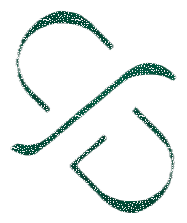
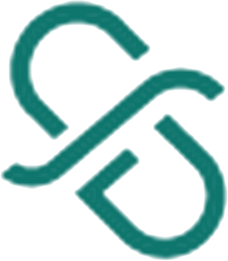
Watermark: crisp official mark, now in every story + section
Regenerated mark.png as a crisp, tightly-cropped bare interlocking-S mark extracted from the official logo (color-keyed the green square away, upscaled), replacing the stippled background-removal version. Added the watermark to all 6 animated story sections too (inside the pinned stage, behind content, white silhouette on the dark stories). Pins stay delta 0; no overlap or horizontal scroll.

diff --git a/_site/index.html b/_site/index.html
@@ -210,7 +210,7 @@
   </section>
 
   <section id="reason" data-story="reason" style="position:relative;background:#0B1220;color:#E7EDF5">
-    <div data-stage="1" style="min-height:100vh;display:flex;align-items:center;padding:clamp(72px,9vh,110px) 28px clamp(44px,6vh,72px);box-sizing:border-box;overflow:hidden">
+    <div data-stage="1" style="position:relative;isolation:isolate;min-height:100vh;display:flex;align-items:center;padding:clamp(72px,9vh,110px) 28px clamp(44px,6vh,72px);box-sizing:border-box;overflow:hidden"><img src="/_site/assets/s/mark.png" alt="" aria-hidden="true" style="position:absolute;z-index:-1;pointer-events:none;user-select:none;opacity:.07;width:clamp(220px,26vw,420px);right:-3%;bottom:-6%;filter:brightness(0) invert(1)">
       <div style="position:absolute;inset:0;background-image:repeating-linear-gradient(0deg, rgba(231,237,245,.04) 0 1px, transparent 1px 54px),repeating-linear-gradient(90deg, rgba(231,237,245,.04) 0 1px, transparent 1px 54px)"></div>
       <div style="position:relative;max-width:1240px;margin:0 auto;width:100%">
         <div style="display:flex;flex-wrap:wrap;align-items:center;gap:clamp(26px,4.5vw,72px)">
@@ -295,7 +295,7 @@
   </section>
 
   <section id="abx" data-story="abx" style="position:relative;background:#0B1220;color:#E7EDF5;border-top:1px solid #16233A">
-    <div data-stage="1" style="min-height:100vh;display:flex;align-items:center;padding:clamp(72px,9vh,110px) 28px clamp(44px,6vh,72px);box-sizing:border-box;overflow:hidden">
+    <div data-stage="1" style="position:relative;isolation:isolate;min-height:100vh;display:flex;align-items:center;padding:clamp(72px,9vh,110px) 28px clamp(44px,6vh,72px);box-sizing:border-box;overflow:hidden"><img src="/_site/assets/s/mark.png" alt="" aria-hidden="true" style="position:absolute;z-index:-1;pointer-events:none;user-select:none;opacity:.07;width:clamp(220px,26vw,420px);right:-3%;bottom:-6%;filter:brightness(0) invert(1)">
       <div style="position:relative;max-width:1240px;margin:0 auto;width:100%">
         <div style="display:flex;flex-wrap:wrap;align-items:center;gap:clamp(26px,4.5vw,72px)">
           <div style="flex:1 1 330px;min-width:0;max-width:470px">
@@ -703,7 +703,7 @@
   </section>
 
   <section id="maik" data-story="maik" style="position:relative;background:#0B1220;color:#E7EDF5">
-    <div data-stage="1" style="min-height:100vh;display:flex;align-items:center;padding:clamp(72px,9vh,110px) 28px clamp(44px,6vh,72px);box-sizing:border-box;overflow:hidden">
+    <div data-stage="1" style="position:relative;isolation:isolate;min-height:100vh;display:flex;align-items:center;padding:clamp(72px,9vh,110px) 28px clamp(44px,6vh,72px);box-sizing:border-box;overflow:hidden"><img src="/_site/assets/s/mark.png" alt="" aria-hidden="true" style="position:absolute;z-index:-1;pointer-events:none;user-select:none;opacity:.07;width:clamp(220px,26vw,420px);right:-3%;bottom:-6%;filter:brightness(0) invert(1)">
       <div style="position:relative;max-width:1240px;margin:0 auto;width:100%">
         <div style="display:flex;flex-wrap:wrap;align-items:center;gap:clamp(26px,4.5vw,72px)">
           <div style="flex:1 1 340px;min-width:0;max-width:480px">
@@ -770,7 +770,7 @@
   </section>
 
   <section id="numbers" data-story="numbers" style="position:relative;background:#0B1220;color:#E7EDF5">
-    <div data-stage="1" style="min-height:100vh;display:flex;align-items:center;padding:clamp(72px,9vh,110px) 28px clamp(44px,6vh,72px);box-sizing:border-box;overflow:hidden">
+    <div data-stage="1" style="position:relative;isolation:isolate;min-height:100vh;display:flex;align-items:center;padding:clamp(72px,9vh,110px) 28px clamp(44px,6vh,72px);box-sizing:border-box;overflow:hidden"><img src="/_site/assets/s/mark.png" alt="" aria-hidden="true" style="position:absolute;z-index:-1;pointer-events:none;user-select:none;opacity:.07;width:clamp(220px,26vw,420px);right:-3%;bottom:-6%;filter:brightness(0) invert(1)">
       <div style="position:relative;max-width:1240px;margin:0 auto;width:100%">
         <div style="display:flex;flex-wrap:wrap;align-items:center;gap:clamp(26px,4.5vw,72px)">
           <div style="flex:1 1 330px;min-width:0;max-width:470px">
@@ -1108,7 +1108,7 @@
   </section>
 
   <section id="oncology" data-story="onco" style="position:relative;background:#0B1220;color:#E7EDF5">
-    <div data-stage="1" style="min-height:100vh;display:flex;align-items:center;padding:clamp(72px,9vh,110px) 28px clamp(44px,6vh,72px);box-sizing:border-box;overflow:hidden">
+    <div data-stage="1" style="position:relative;isolation:isolate;min-height:100vh;display:flex;align-items:center;padding:clamp(72px,9vh,110px) 28px clamp(44px,6vh,72px);box-sizing:border-box;overflow:hidden"><img src="/_site/assets/s/mark.png" alt="" aria-hidden="true" style="position:absolute;z-index:-1;pointer-events:none;user-select:none;opacity:.07;width:clamp(220px,26vw,420px);right:-3%;bottom:-6%;filter:brightness(0) invert(1)">
       <div style="position:relative;max-width:1240px;margin:0 auto;width:100%">
         <div style="display:flex;flex-wrap:wrap;align-items:center;gap:clamp(26px,4.5vw,72px)">
           <div style="flex:1 1 330px;min-width:0;max-width:470px">
@@ -1436,7 +1436,7 @@
   </section>
 
   <section id="followcare" data-story="fc" style="position:relative;background:#0B1220;color:#E7EDF5">
-    <div data-stage="1" style="min-height:100vh;display:flex;align-items:center;padding:clamp(72px,9vh,110px) 28px clamp(44px,6vh,72px);box-sizing:border-box;overflow:hidden">
+    <div data-stage="1" style="position:relative;isolation:isolate;min-height:100vh;display:flex;align-items:center;padding:clamp(72px,9vh,110px) 28px clamp(44px,6vh,72px);box-sizing:border-box;overflow:hidden"><img src="/_site/assets/s/mark.png" alt="" aria-hidden="true" style="position:absolute;z-index:-1;pointer-events:none;user-select:none;opacity:.07;width:clamp(220px,26vw,420px);right:-3%;bottom:-6%;filter:brightness(0) invert(1)">
       <div style="position:relative;max-width:1240px;margin:0 auto;width:100%">
         <div style="display:flex;flex-wrap:wrap;align-items:center;gap:clamp(26px,4.5vw,64px)">
           <div style="flex:1 1 320px;min-width:0;max-width:440px">
